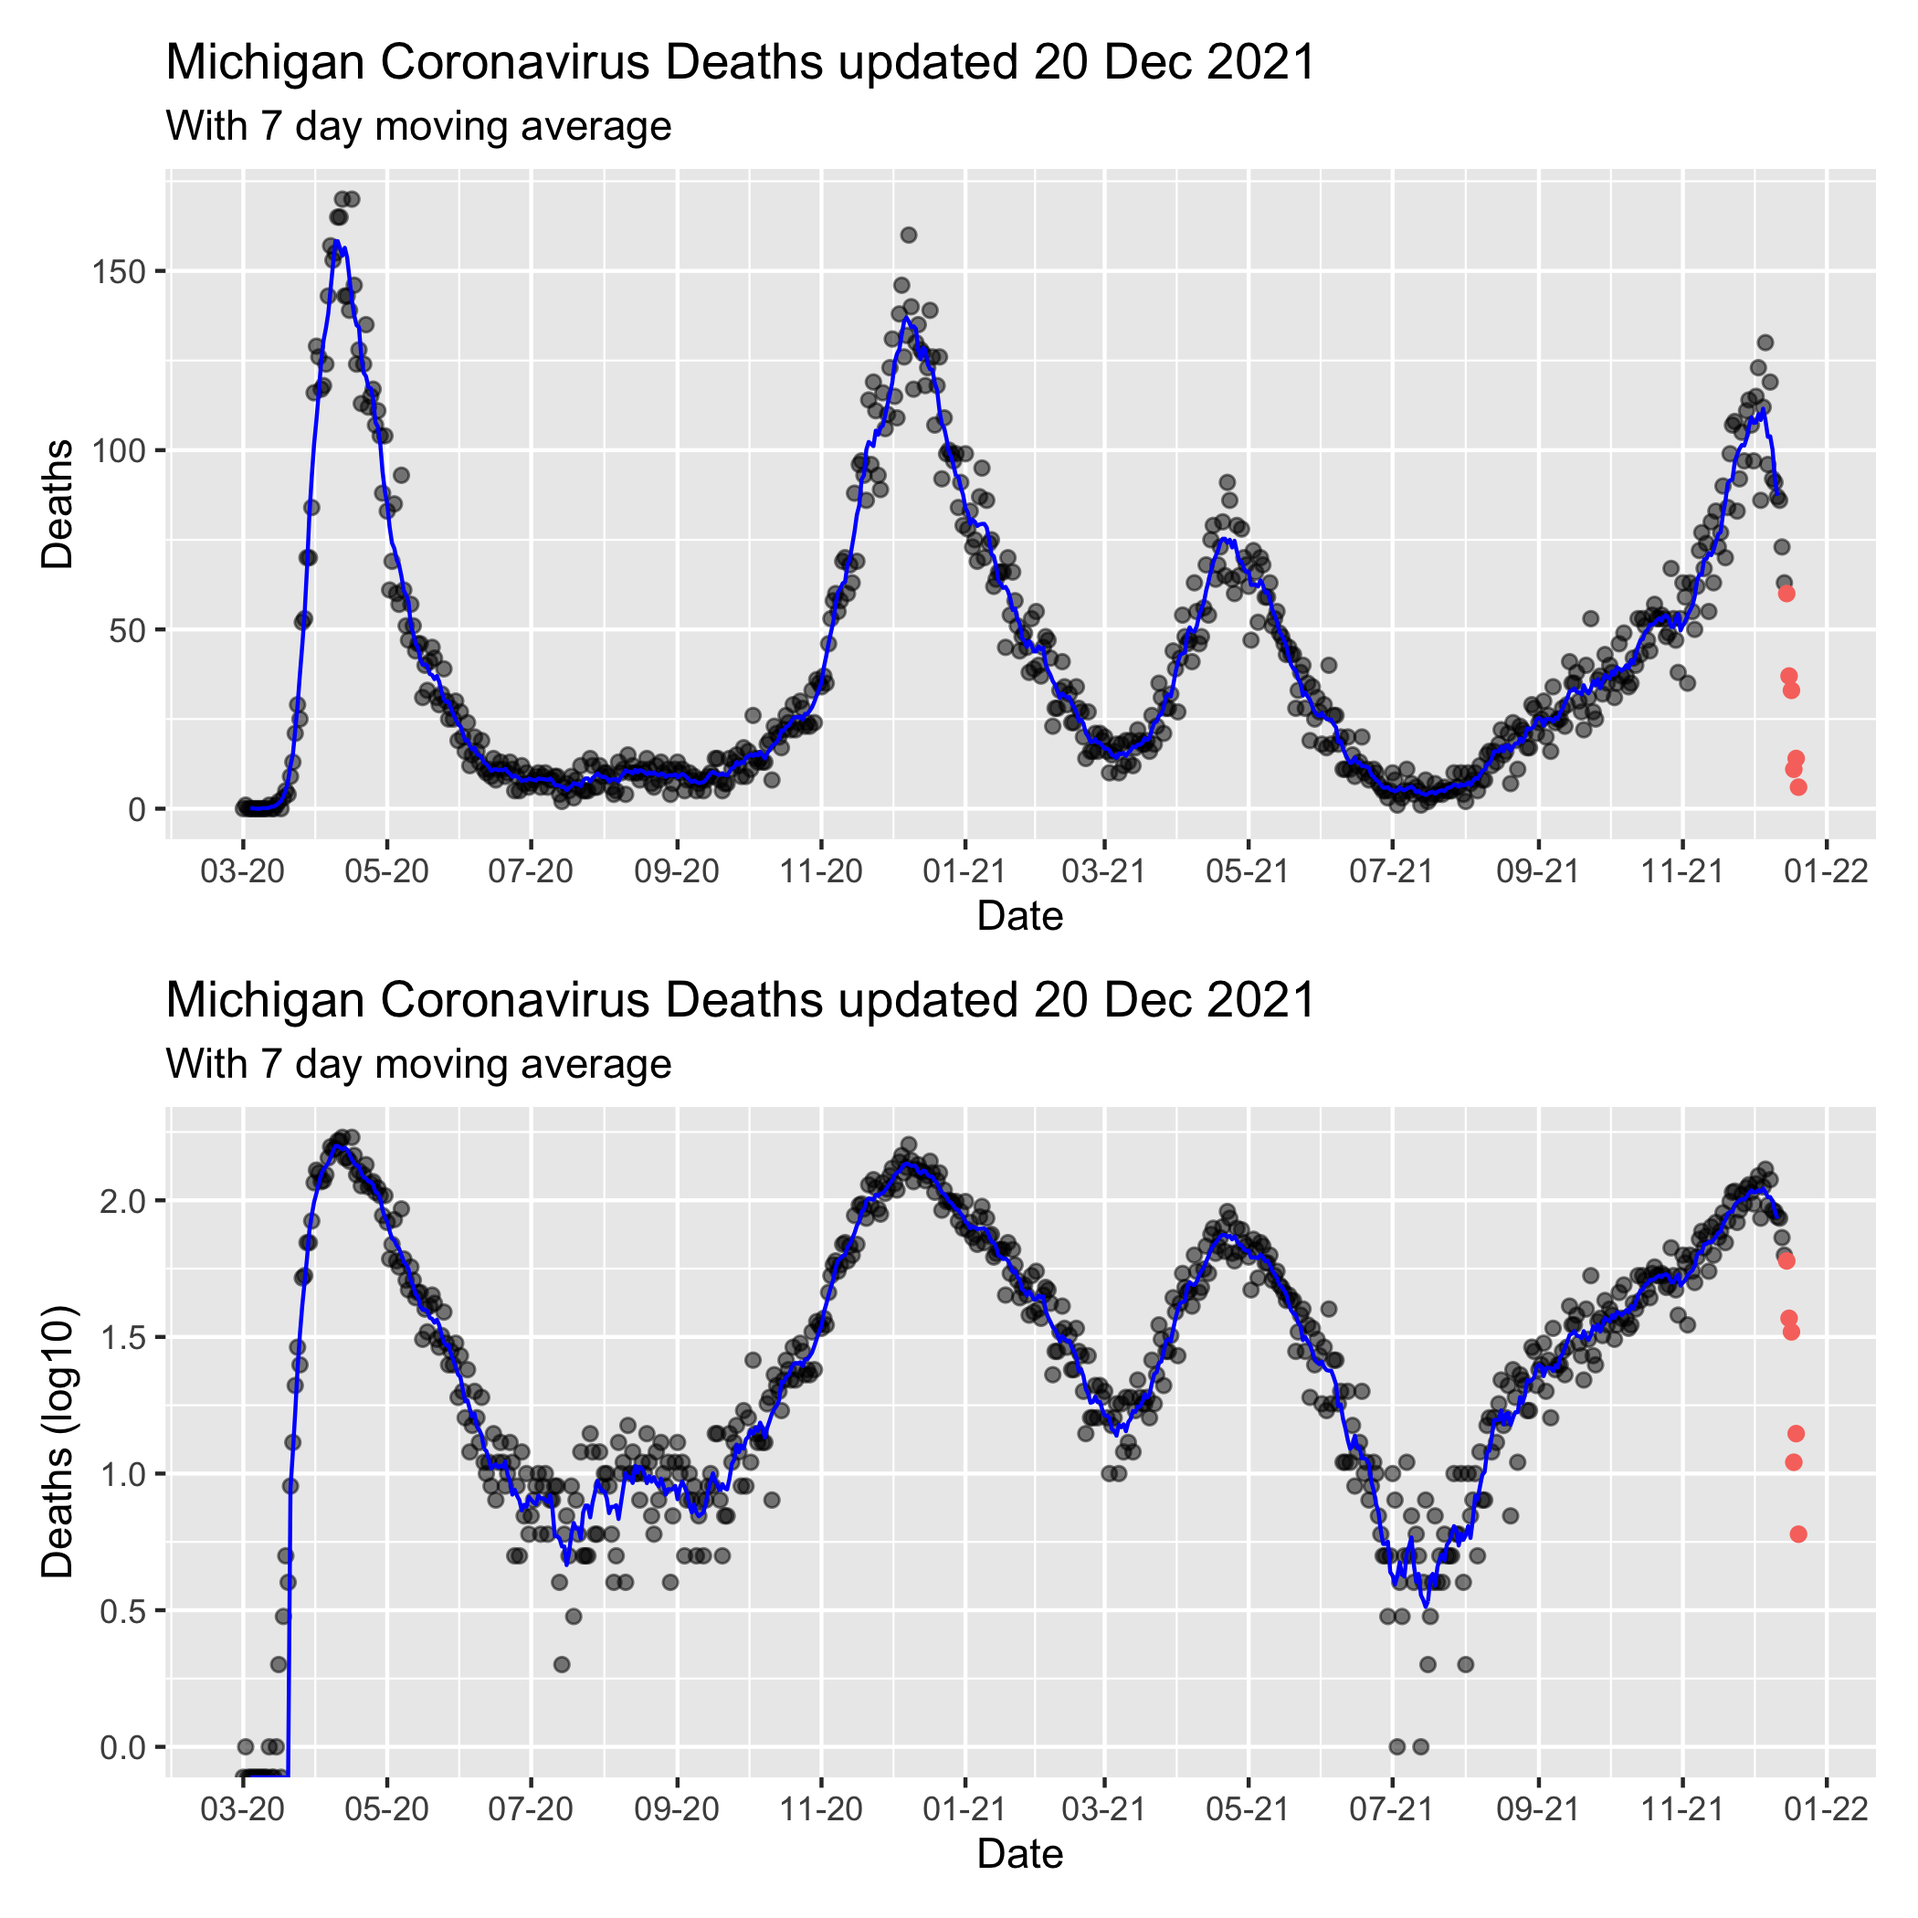
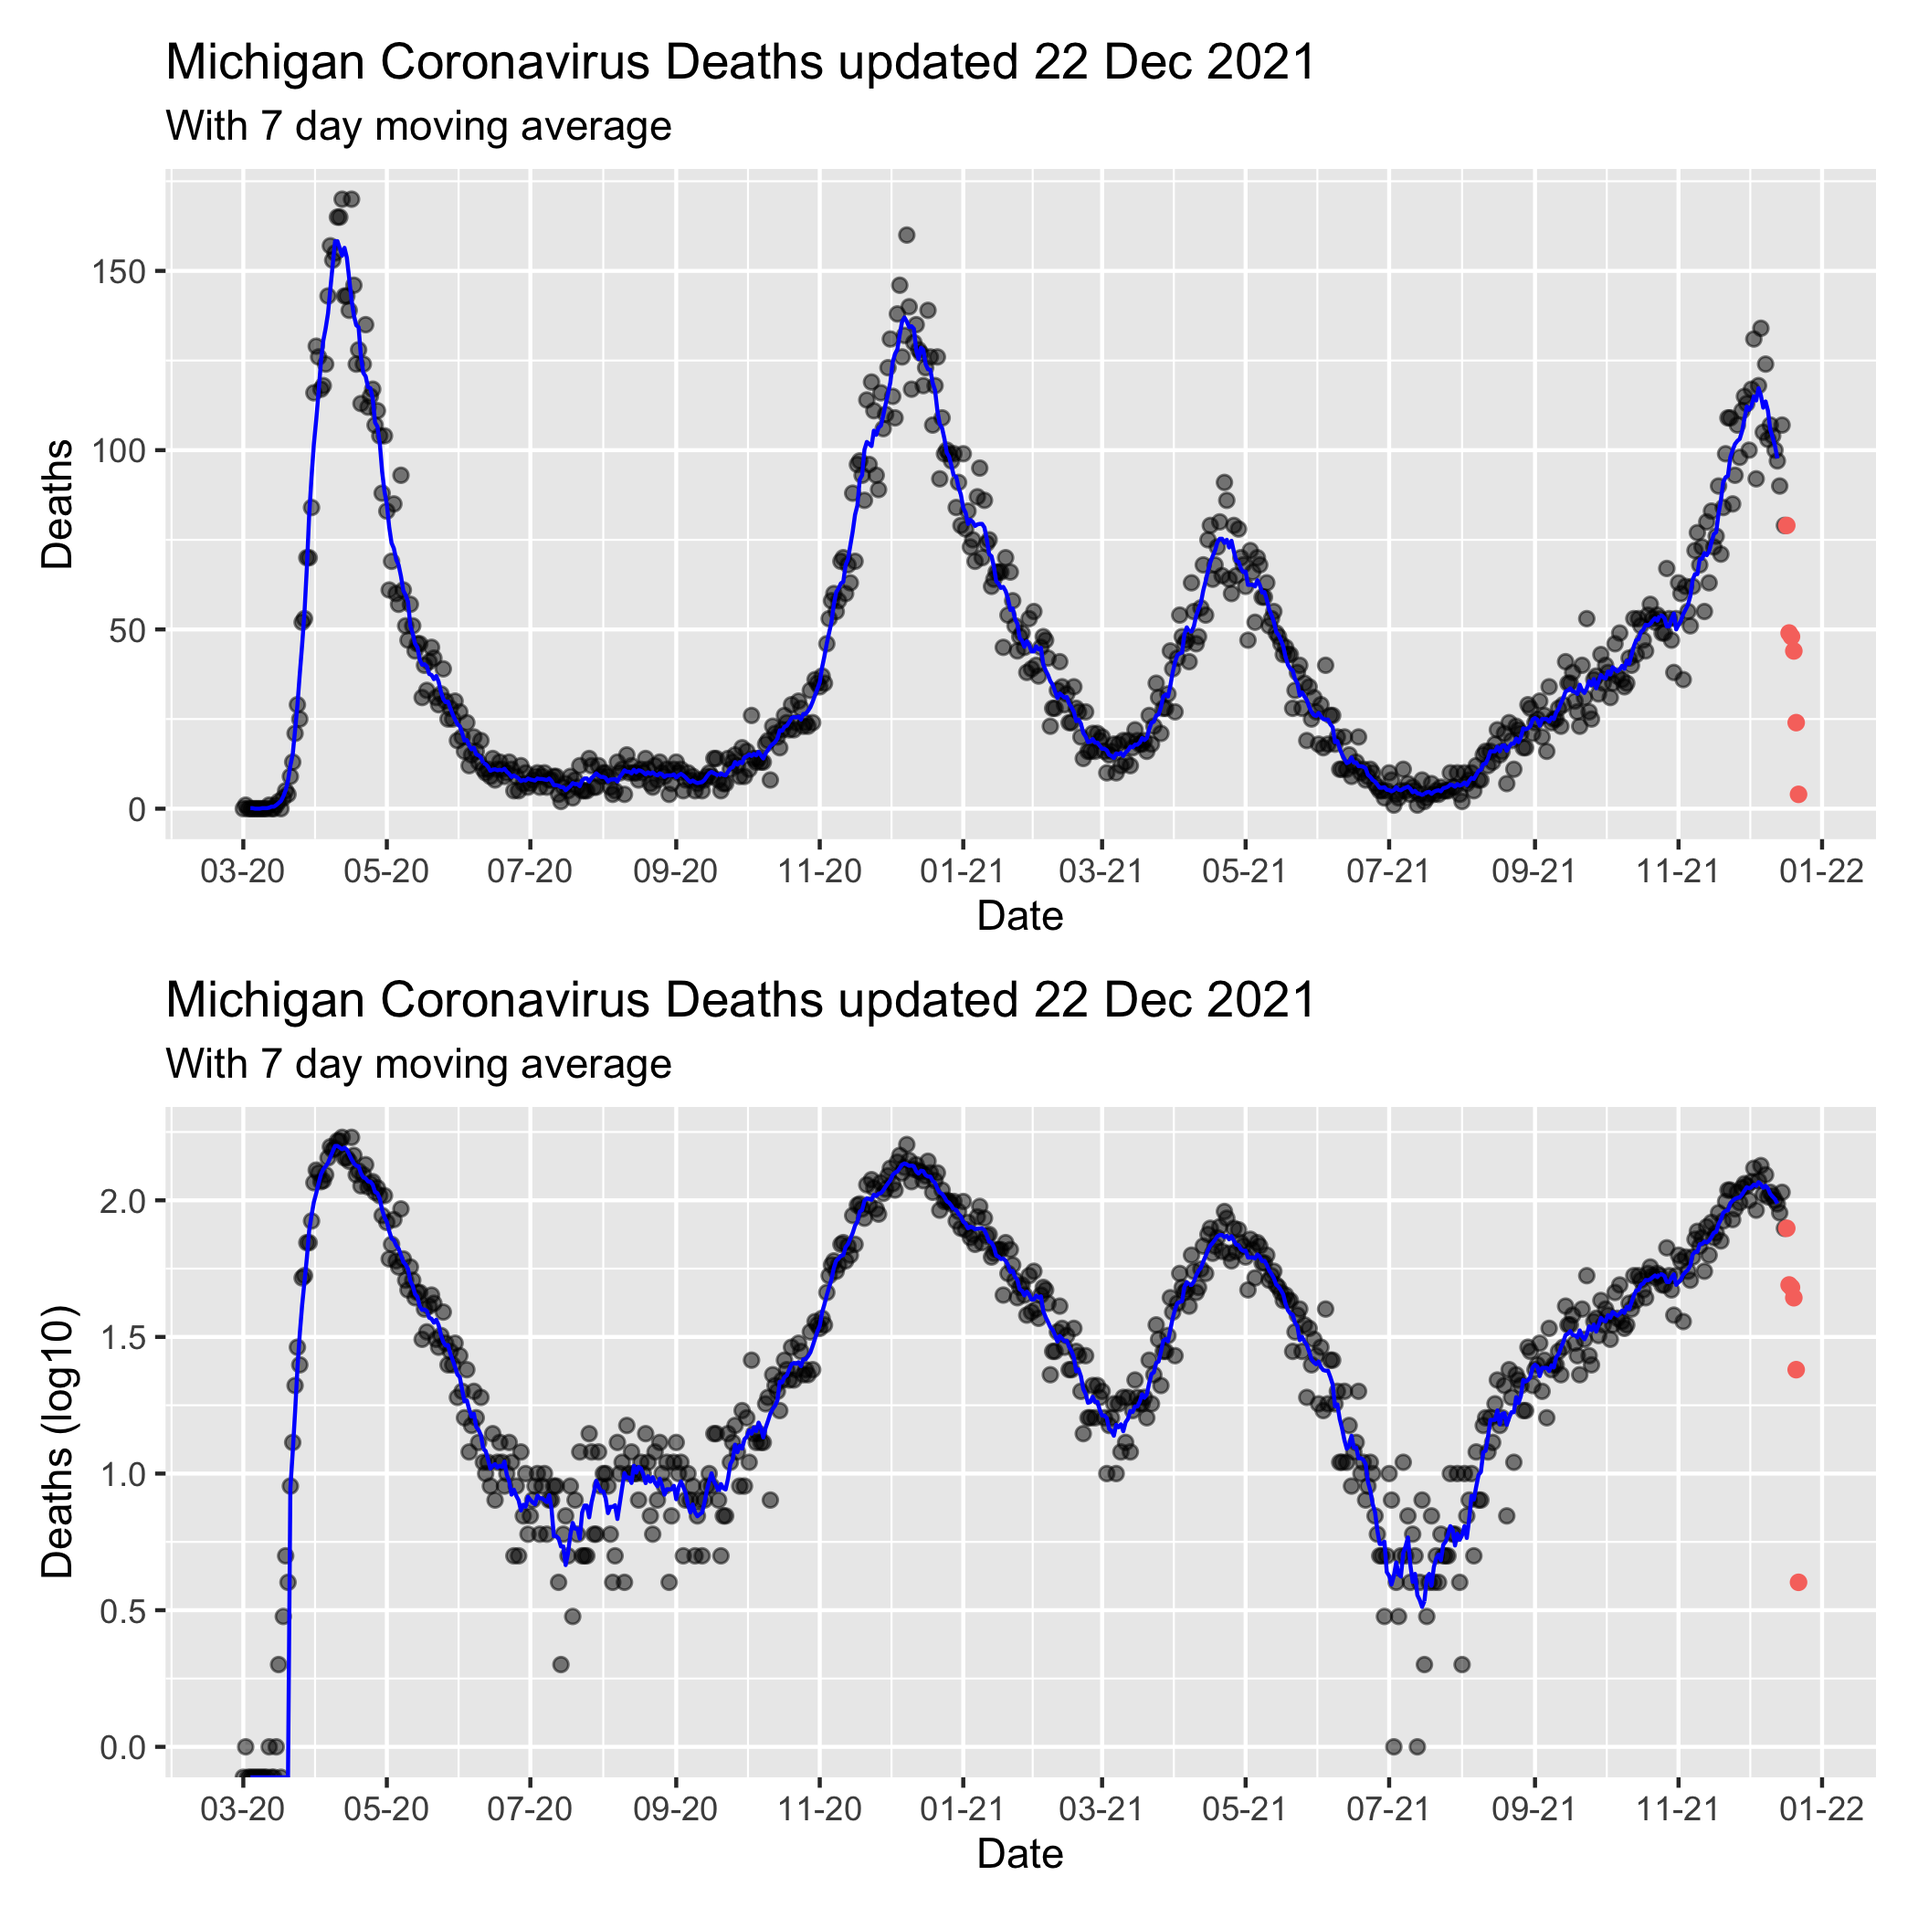
Dec-23 2021 00:41 update

diff --git a/MiCorona.md b/MiCorona.md
@@ -1,7 +1,7 @@
 Michigan COVID Data
 ================
 Adam D. DenHaan
-Dec 21, 2021
+Dec 23, 2021
 
 Get link for data:
 
@@ -48,11 +48,11 @@ mi_data.head()
     ## 4  Alcona 2020-03-05   Confirmed    0.0     0.0               0.0   
     ## 
     ##    Deaths.Cumulative                       Updated  
-    ## 0                0.0 2021-12-20 14:26:44.889900032  
-    ## 1                0.0 2021-12-20 14:26:44.889900032  
-    ## 2                0.0 2021-12-20 14:26:44.889900032  
-    ## 3                0.0 2021-12-20 14:26:44.889900032  
-    ## 4                0.0 2021-12-20 14:26:44.889900032
+    ## 0                0.0 2021-12-22 14:58:30.474999808  
+    ## 1                0.0 2021-12-22 14:58:30.474999808  
+    ## 2                0.0 2021-12-22 14:58:30.474999808  
+    ## 3                0.0 2021-12-22 14:58:30.474999808  
+    ## 4                0.0 2021-12-22 14:58:30.474999808
 
 ``` python
 max_date = max(mi_data["Updated"])
